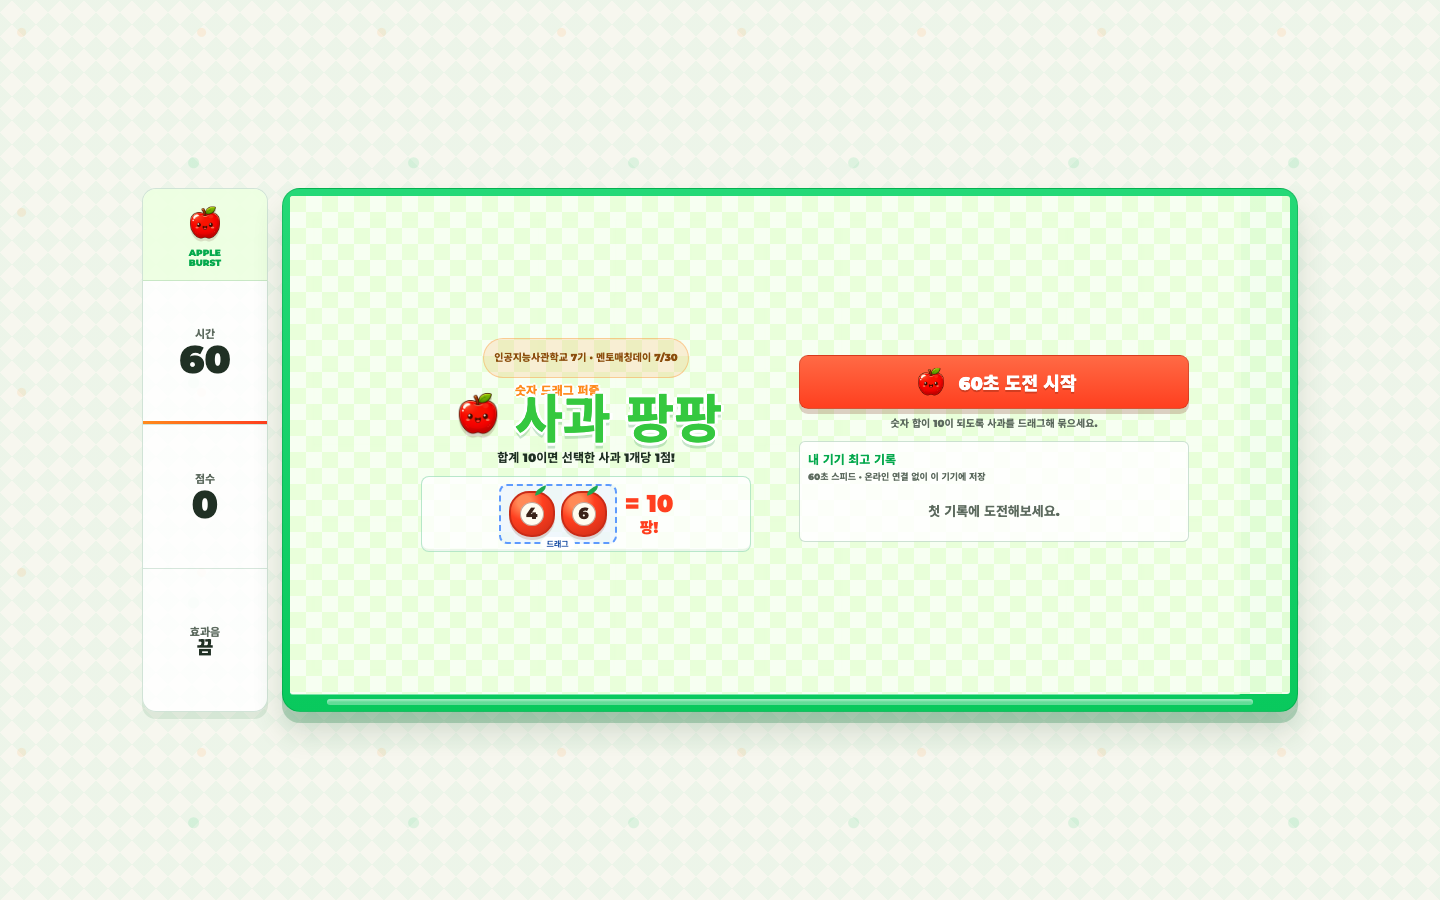
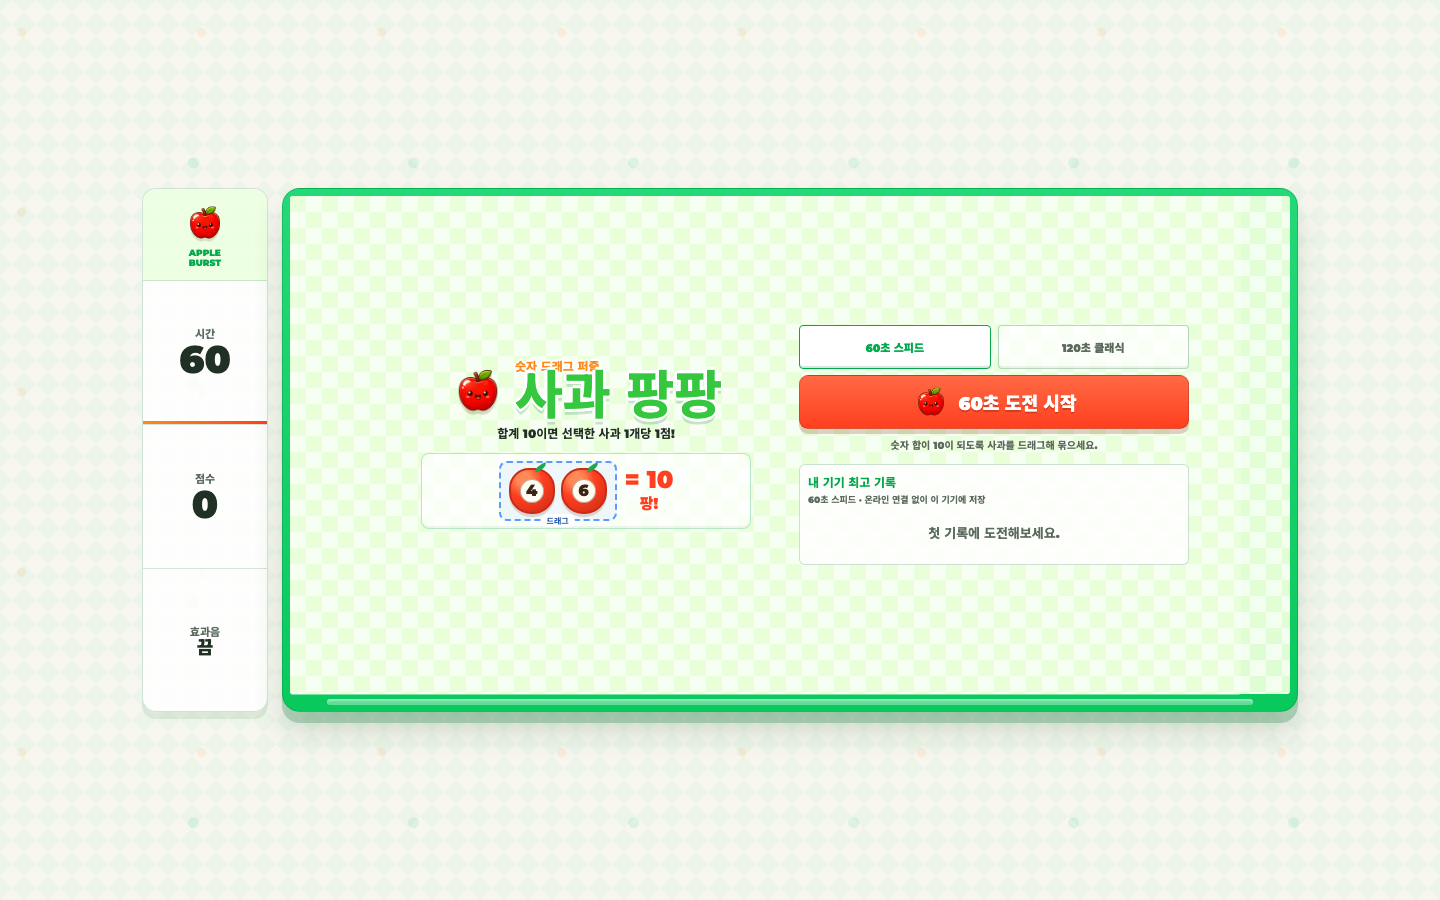
fix: keep apple burst branding generic

Changed region(s): [[0.2812, 0.3422, 0.8438, 0.6533]]

diff --git a/index.html b/index.html
@@ -7,7 +7,7 @@
     <meta name="mobile-web-app-capable" content="yes">
     <meta name="apple-mobile-web-app-capable" content="yes">
     <meta name="apple-mobile-web-app-status-bar-style" content="black-translucent">
-    <title>사과 팡팡: 오늘의 챔피언</title>
+    <title>사과 팡팡</title>
     <link rel="icon" type="image/png" href="assets/apple-mascot.png">
     <link rel="manifest" href="manifest.webmanifest">
     <script src="game-rules.js"></script>
@@ -142,11 +142,6 @@
         @keyframes overlay-in { from { opacity: 0; transform: scale(0.992); } to { opacity: 1; transform: scale(1); } }
         #screen-start { flex-direction: column; gap: 0; padding: 18px; }
 
-        .campaign-badge {
-            display: inline-flex; align-items: center; gap: 6px; min-height: 28px; margin-bottom: 9px; padding: 5px 10px;
-            border-radius: 999px; background: rgba(255,138,28,0.14); border: 1px solid rgba(255,138,28,0.35);
-            color: #8b4d0c; font-size: 10px; line-height: 1.3;
-        }
         .start-hero { width: min(100%, 360px); display: flex; flex-direction: column; align-items: center; justify-content: center; min-width: 0; }
         .start-layout { width: min(100%, 360px); display: flex; flex-direction: column; align-items: stretch; gap: 7px; margin-top: 7px; }
         .brand { display: inline-grid; grid-template-columns: 46px auto; align-items: center; gap: 7px; margin-bottom: 5px; }
@@ -259,8 +254,6 @@
         .local-best-card { display: flex; align-items: center; justify-content: space-between; gap: 12px; min-height: 52px; padding: 8px 4px; color: var(--muted); }
         .local-best-card strong { color: var(--apple); font-size: 24px; }
         #screen-start.offline-mode #nick-setting { display: none; }
-        #screen-start.campaign-mode #mode-picker { display: none; }
-        #screen-start.campaign-mode .start-layout { margin-top: 7px; }
         #toast { position: fixed; left: 50%; bottom: 24px; transform: translate(-50%, 18px); z-index: 10000; min-width: min(88vw, 320px); max-width: 90vw; padding: 12px 16px; border-radius: 999px; background: rgba(47, 157, 103, 0.94); color: #fff; font-size: 13px; font-weight: 900; text-align: center; opacity: 0; pointer-events: none; transition: opacity 0.18s, transform 0.18s; box-shadow: 0 14px 34px rgba(34,104,67,0.22); }
         #toast.show { opacity: 1; transform: translate(-50%, 0); }
 
@@ -308,7 +301,6 @@
             .brand-kicker { font-size: 12px; }
             .tagline { font-size: 12px; }
             .play-preview { width: min(100%, 330px); margin-top: 10px; }
-            .campaign-badge { margin-bottom: 7px; }
             #rank-container { max-height: 132px; padding: 8px; }
             .rank-head { margin-bottom: 4px; }
             .rank-meta { margin-bottom: 3px; font-size: 9px; }
@@ -324,7 +316,6 @@
         }
         @media (orientation: landscape) and (max-height: 500px) {
             #screen-start { gap: 10px; padding: 10px; }
-            .campaign-badge { min-height: 22px; margin-bottom: 5px; padding: 3px 7px; font-size: 8px; }
             .brand-kicker { font-size: 9px; }
             .tagline { font-size: 10px; }
             .play-preview { margin-top: 6px; }
@@ -399,7 +390,6 @@
 
         <div id="screen-start" class="overlay">
             <div class="start-hero">
-                <div id="campaign-badge" class="campaign-badge hidden"></div>
                 <div class="brand" aria-label="사과 팡팡">
                     <img src="assets/apple-mascot.png" alt="" aria-hidden="true">
                     <div>
@@ -522,10 +512,8 @@ const Game = {
         this.playerKey = this.getPlayerKey(this.nick);
         const nickInput = document.getElementById('nick-input');
         nickInput.value = this.nick === DEFAULT_NICK || this.nick === "PLAYER" ? "" : this.nick;
-        const campaign = new URLSearchParams(window.location.search).get('event');
-        this.setMode(campaign === "ais7" ? "rush" : (localStorage.getItem('apple_mode') || "rush"));
-        this.configureStartScreen(campaign);
-        this.loadCampaign();
+        this.setMode(localStorage.getItem('apple_mode') || "rush");
+        this.configureStartScreen();
         this.loadChallenge();
         this.updateSoundControl();
         this.updateHud();
@@ -682,20 +670,9 @@ const Game = {
         state.innerText = message;
     },
 
-    configureStartScreen(campaign) {
+    configureStartScreen() {
         const startScreen = document.getElementById('screen-start');
         startScreen.classList.toggle('offline-mode', !ONLINE_RANKING_ENABLED);
-        startScreen.classList.toggle('campaign-mode', campaign === "ais7");
-    },
-
-    loadCampaign() {
-        const params = new URLSearchParams(window.location.search);
-        if(params.get('event') !== "ais7") return;
-        const badge = document.getElementById('campaign-badge');
-        badge.classList.remove('hidden');
-        badge.textContent = "인공지능사관학교 7기 · 멘토매칭데이 7/30";
-        document.title = "사과 팡팡 · 인공지능사관학교 7기";
-        this.setRankMode("today");
     },
 
     loadChallenge() {

diff --git a/tests/game-rules.test.js b/tests/game-rules.test.js
@@ -1,5 +1,7 @@
 const test = require('node:test');
 const assert = require('node:assert/strict');
+const fs = require('node:fs');
+const path = require('node:path');
 
 const { SCORE_VERSION, scoreForApples } = require('../game-rules.js');
 
@@ -17,4 +19,19 @@ test('잘못된 사과 개수는 점수에 반영하지 않는다', () => {
 
 test('반응형 대형 사과 게임판은 점수 버전 8을 사용한다', () => {
     assert.equal(SCORE_VERSION, 8);
+});
+
+test('공개 게임은 행사 전용 문구 없이 하나의 기본 주소를 사용한다', () => {
+    const root = path.join(__dirname, '..');
+    const index = fs.readFileSync(path.join(root, 'index.html'), 'utf8');
+    const readme = fs.readFileSync(path.join(root, 'README.md'), 'utf8');
+    const manifest = JSON.parse(fs.readFileSync(path.join(root, 'manifest.webmanifest'), 'utf8'));
+    const publicText = `${index}\n${readme}`;
+
+    assert.doesNotMatch(publicText, /ais7|인공지능사관학교|멘토매칭데이/);
+    assert.equal(manifest.start_url, './');
+    assert.equal(
+        (readme.match(/https:\/\/seung-won-yu\.github\.io\/apple-burst\//g) || []).length,
+        1,
+    );
 });

diff --git a/README.md b/README.md
@@ -3,7 +3,6 @@
 숫자가 적힌 사과를 드래그해 합계 10을 만드는 반응형 브라우저 퍼즐 게임입니다. 모바일에서는 세로 전체화면, 데스크톱에서는 가로형 게임판으로 실행됩니다.
 
 - 운영 주소: https://seung-won-yu.github.io/apple-burst/
-- 인공지능사관학교 7기 멘토매칭데이: https://seung-won-yu.github.io/apple-burst/?event=ais7
 - 현재 운영 모드: 오프라인 우선, 기기별 최고점 저장
 - 온라인 랭킹: 비활성
 
@@ -23,8 +22,8 @@
 
 게임 모드:
 
-- `60초 스피드`: 행사 링크의 기본 모드
-- `120초 클래식`: 일반 주소에서 선택 가능
+- `60초 스피드`
+- `120초 클래식`
 
 ## 반응형 설계
 
@@ -51,7 +50,7 @@
 ## 시작과 피드백
 
 - 시작 화면에서 `4 + 6 = 10` 드래그 규칙 미리보기
-- 행사 링크에서는 닉네임과 모드 선택을 생략하고 한 번에 시작
+- 시작 화면에서 60초 또는 120초 모드 선택
 - 드래그 중 현재 합계를 `현재 합 / 10`으로 표시
 - 정답, 실패, 자동 섞기를 애니메이션과 진동으로 구분
 - 점수 증가 애니메이션과 남은 시간 진행선 제공
@@ -75,19 +74,14 @@
 
 현장에서 여러 기기가 동시에 재생되는 상황을 고려해 효과음 기본값은 `OFF`입니다.
 
-## 행사 운영
+## QR 실행
 
 발표 자료:
 
-- [QR 원본](docs/ai-school-7th-qr.png)
-- [16:9 발표용 QR 슬라이드](docs/ai-school-7th-qr-slide.png)
+- [QR 원본](docs/apple-burst-qr.png)
+- [16:9 발표용 QR 슬라이드](docs/apple-burst-qr-slide.png)
 
-행사 링크 동작:
-
-- `?event=ais7` 캠페인 배지 표시
-- 60초 스피드 모드 고정
-- 닉네임 입력과 모드 선택 숨김
-- 온라인 요청 없이 바로 플레이
+QR과 README는 모두 동일한 운영 주소를 사용합니다.
 
 주소창 관련:
 
@@ -104,7 +98,7 @@ GitHub Pages
 → localStorage에 모드·효과음·기기 최고점 저장
 ```
 
-현재 `ONLINE_RANKING_ENABLED = false`이므로 Firebase SDK를 불러오거나 Realtime Database에 요청하지 않습니다. 행사에서 약 200명이 동시에 접속해도 플레이 중 데이터베이스 읽기·쓰기는 발생하지 않습니다.
+현재 `ONLINE_RANKING_ENABLED = false`이므로 Firebase SDK를 불러오거나 Realtime Database에 요청하지 않습니다. 약 200명이 동시에 접속해도 플레이 중 데이터베이스 읽기·쓰기는 발생하지 않습니다.
 
 ## 로컬 실행
 
@@ -112,8 +106,7 @@ GitHub Pages
 python3 -m http.server 4174
 ```
 
-- 일반 주소: http://localhost:4174/
-- 행사 주소: http://localhost:4174/?event=ais7
+- 실행 주소: http://localhost:4174/
 
 ## 검증
 

diff --git a/.design/responsive-premium/DESIGN_BRIEF.md b/.design/responsive-premium/DESIGN_BRIEF.md
@@ -2,11 +2,11 @@
 
 ## 목표
 
-행사 QR로 처음 접속한 사용자가 설명 없이 규칙을 이해하고, 모바일과 데스크톱에서 각각 화면을 충분히 활용해 60초 게임을 완주할 수 있는 완성도 높은 웹게임을 만든다.
+QR이나 링크로 처음 접속한 사용자가 설명 없이 규칙을 이해하고, 모바일과 데스크톱에서 각각 화면을 충분히 활용해 게임을 완주할 수 있는 완성도 높은 웹게임을 만든다.
 
 ## 대상 사용자
 
-- 인공지능사관학교 멘토매칭데이 현장 참여자
+- 짧은 시간에 바로 플레이하려는 사용자
 - QR로 처음 접속하는 모바일 사용자
 - 발표 화면이나 노트북에서 시연하는 데스크톱 사용자
 

diff --git a/.design/responsive-premium/REVIEW.md b/.design/responsive-premium/REVIEW.md
@@ -12,7 +12,7 @@
 
 ## 검증 흐름
 
-- 시작 화면과 행사 모드
+- 시작 화면과 게임 모드
 - 모바일 6×12 / 데스크톱 12×6 판 생성
 - 정답과 실패 드래그
 - 10회 연속 정답 처리
